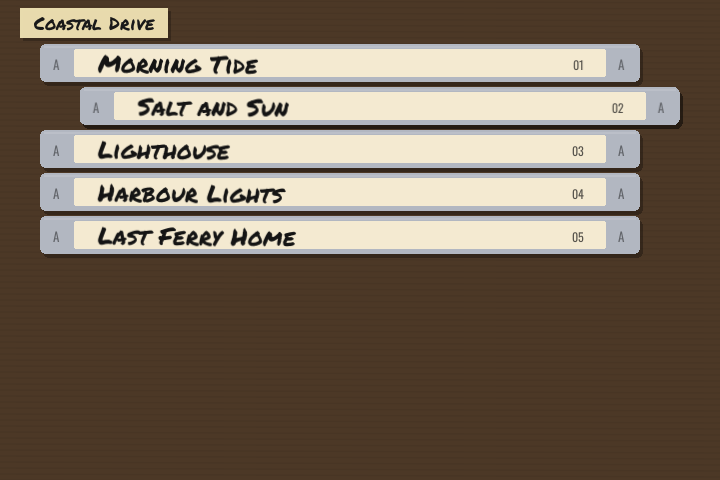
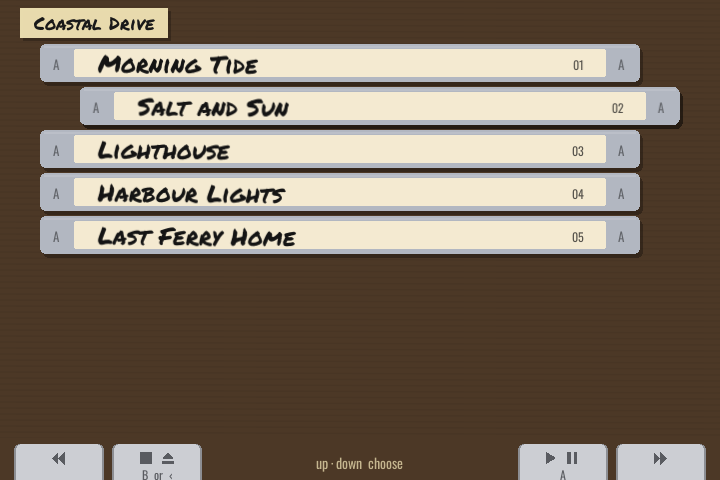
D-pad song skip, key hints in the library, install docs fix
- In the player, D-pad left/right jumps straight to the previous/next song
  (start of this song first, like REW's music sensor) with a short whir of
  the reels; play, pause or stop is kept. L1/R1 stay real REW/FF.
- The library shows the player's keys along the bottom (lib/keys.lua, now
  shared) with each key's twin printed on it: L1/R1 flip a pile, R2 or A
  plays, L2, B or D-pad left goes back up, D-pad right opens an album.
  Keys press down with their twins too. The stack now shows 9 tapes.
- Docs: the .muxapp goes in the ARCHIVE folder at the top of the SD card,
  and a warning to switch off before swapping SD cards (muOS doesn't pick a
  re-inserted card up again until restart).

Claude-Session: https://claude.ai/code/session_013h42Ln1xJVHQVHQ8PeAZ2n

Changed region(s): [[0.7028, 0.9062, 1.0, 1.0], [0.0, 0.9062, 0.3056, 1.0], [0.4278, 0.9375, 0.55, 1.0]]

diff --git a/README.md b/README.md
@@ -53,17 +53,20 @@ order they sit on the RG34XXSP hinge (L1 L2 on the left, R2 R1 on the right):
 | R2 | PLAY/PAUSE | Plays | Pauses; press again to carry on |
 | R1 | FF | Fast-forwards until STOP or the end of the tape | Tap: wind to the next song (music sensor). Hold: cue, the tape plays fast and high-pitched |
 
-A works as PLAY and B as STOP.
+A works as PLAY and B as STOP. D-pad left / right jumps straight to the
+previous / next song (with a short whir of the reels), while L1 / R1 stay
+real REW / FF.
 
-The library uses the same keys:
+The library shows the same keys along the bottom, with each key's twin
+printed on it:
 
-| Button | Library |
-| --- | --- |
-| D-pad up/down | Previous / next tape |
-| L1 / R1 (or D-pad left/right) | A pile of tapes back / forward |
-| R2 (PLAY) | Put the tape in and play: an album from its first song, a song from that song |
-| A | Open an album to see its songs, or play the selected song |
-| L2 (STOP) or B | Back up a folder |
+| Button | Twin | Library |
+| --- | --- | --- |
+| D-pad up/down | | Previous / next tape |
+| L1 / R1 | | A pile of tapes back / forward |
+| R2 (PLAY) | A | Put the tape in and play: an album from its first song, a song from that song |
+| L2 (STOP) | B, D-pad left | Back up a folder |
+| D-pad right | | Open an album to see its songs |
 
 Select + Start or the Menu button quits.
 
@@ -76,6 +79,11 @@ Put a `MUSIC` folder at the top of an SD card, with one folder per album. The
 app asks muOS where the SD cards are mounted and shows each card's `MUSIC`
 folder that exists (usually `/mnt/sdcard/MUSIC` and `/mnt/mmc/MUSIC`).
 
+> **Switch the device off before taking an SD card out** to add music. muOS
+> sets up its storage when it starts, so a card pulled out and put back while
+> the device is on isn't picked up again, and Retro Cassette (which is
+> installed on the card) won't start until you restart the device.
+
 Set `RC_MUSIC_DIR` to use a different folder.
 
 ## Install on a device
@@ -83,9 +91,8 @@ Set `RC_MUSIC_DIR` to use a different folder.
 Made for muOS 2606 (Andromeda).
 
 1. Download `RetroCassette-<version>.muxapp` from the [Releases](https://github.com/alesavin/muos-retro-music-player/releases) page, or build it with `scripts/package.sh <version>`.
-2. Copy the `.muxapp` to `MUOS/ARCHIVE/` on the SD card and install it with
-   Applications → Archive Manager. Or copy the `RetroCassette` folder to
-   `MUOS/application/` on the SD card yourself.
+2. Copy the `.muxapp` to the `ARCHIVE` folder at the top of the SD card
+   (`SD1/ARCHIVE/`) and install it with Applications → Archive Manager.
 3. Start **Retro Cassette** from the Applications menu.
 
 The app runs on the LÖVE runtime that muOS ships with its built-in 2048 Plus
